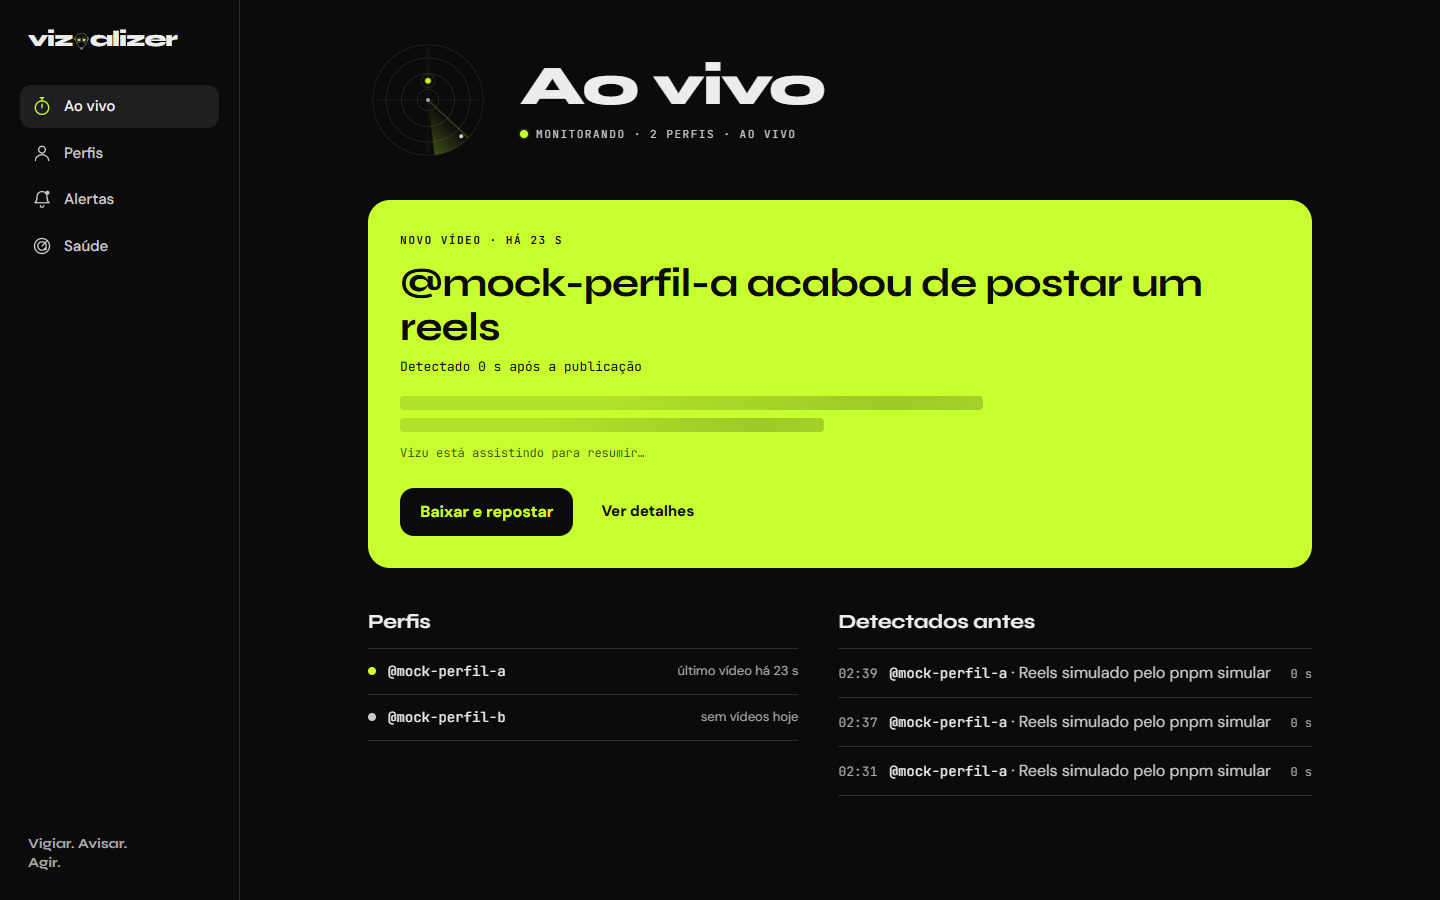
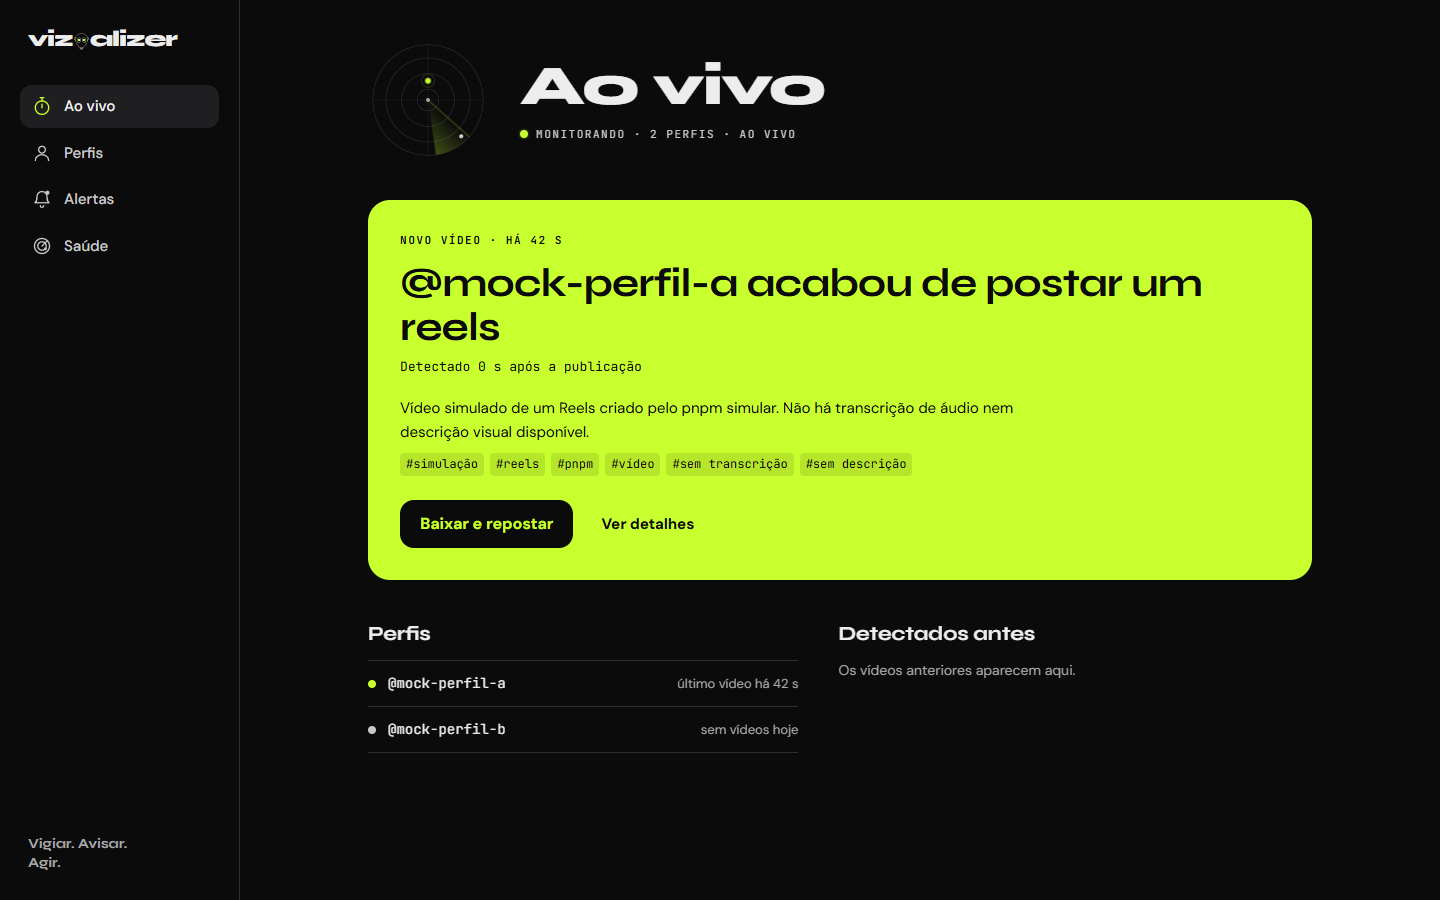
fix: corrige achados da revisao do painel (acessibilidade e push)
Foco visivel dentro do card lima, pular para o conteudo, erro de link expirado
no login, carregando x nao encontrado, realtime reconecta, push sem duplicar,
sw.js trata falha ao navegar, cookies preservados no redirect do proxy.

diff --git a/apps/painel/app/(app)/video/[id]/page.tsx b/apps/painel/app/(app)/video/[id]/page.tsx
@@ -17,7 +17,7 @@ const STATUS: Record<string, string> = {
 export default function DetalheVideo() {
   const { id } = useParams<{ id: string }>();
   const router = useRouter();
-  const { dados: video, erro } = useAoVivo(
+  const { dados: video, erro, carregando } = useAoVivo(
     async () => ok(await supabase().from("videos").select(SELECT_VIDEO).eq("id", id).maybeSingle()) as Video | null,
     ["videos", "jobs_ia"],
   );
@@ -25,17 +25,27 @@ export default function DetalheVideo() {
   const [acaoErro, setAcaoErro] = useState<string | null>(null);
 
   useEffect(() => {
+    setSrc(null);
     if (video?.storage_path) linkDownload(video.storage_path).then(setSrc, () => setSrc(null));
   }, [video?.storage_path]);
+
+  async function baixar() {
+    setAcaoErro(null);
+    try {
+      window.location.href = await linkDownload(video!.storage_path!); // link novo a cada clique
+    } catch (e) {
+      setAcaoErro(e instanceof Error ? e.message : "falha ao gerar o link");
+    }
+  }
 
   async function marcar(status: "repostado" | "ignorado") {
     const { error } = await supabase().from("videos").update({ status }).eq("id", id);
     if (error) setAcaoErro(error.message);
   }
 
-  if (erro) return <Erro mensagem={erro} />;
-  if (video === null) return <Vazio titulo="Vídeo não encontrado" texto="Ele pode ter sido removido." />;
-  if (!video) return <div className="skeleton h-96 rounded-[22px] bg-sup-2" aria-label="Carregando" />;
+  if (carregando) return <div role="status" className="skeleton h-96 rounded-[22px] bg-sup-2" aria-label="Carregando vídeo" />;
+  if (erro && !video) return <Erro mensagem={erro} />;
+  if (!video) return <Vazio titulo="Vídeo não encontrado" texto="Ele pode ter sido removido." />;
   const job = statusJob(video);
 
   return (
@@ -104,13 +114,14 @@ export default function DetalheVideo() {
           )}
 
           <div className="flex flex-wrap gap-3">
-            <a
-              href={src ?? undefined}
-              aria-disabled={!src}
-              className={`rounded-[14px] bg-sinal px-5 py-3 font-bold text-tinta ${src ? "" : "pointer-events-none opacity-50"}`}
+            <button
+              type="button"
+              onClick={baixar}
+              disabled={!video.storage_path}
+              className="rounded-[14px] bg-sinal px-5 py-3 font-bold text-tinta disabled:opacity-50"
             >
-              Baixar
-            </a>
+              {video.storage_path ? "Baixar" : "Preparando o download…"}
+            </button>
             <a href={video.permalink} target="_blank" rel="noreferrer" className="rounded-[14px] border border-borda px-5 py-3 font-bold">
               Abrir no Instagram
             </a>

diff --git a/apps/painel/app/(app)/alertas/page.tsx b/apps/painel/app/(app)/alertas/page.tsx
@@ -47,9 +47,14 @@ export default function Alertas() {
       const reg = await navigator.serviceWorker.ready;
       const sub = await reg.pushManager.subscribe({ userVisibleOnly: true, applicationServerKey: base64ParaUint8(VAPID) });
       const { data: u } = await supabase().auth.getUser();
-      const { error } = await supabase().from("dispositivos").insert({ usuario_id: u.user!.id, tipo: "web_push", destino: sub.toJSON() });
+      if (!u.user) throw new Error("sessão expirada, entre de novo");
+      // subscribe() devolve a mesma assinatura em cliques repetidos: não duplicar o dispositivo.
+      const jaExiste = dados?.find((d) => d.tipo === "web_push" && d.destino.endpoint === sub.endpoint);
+      const { error } = jaExiste
+        ? await supabase().from("dispositivos").update({ ativo: true }).eq("id", jaExiste.id)
+        : await supabase().from("dispositivos").insert({ usuario_id: u.user.id, tipo: "web_push", destino: sub.toJSON() });
       if (error) throw new Error(error.message);
-      setMsg("Push ativado neste aparelho.");
+      setMsg(jaExiste ? "Push já estava ativo neste aparelho." : "Push ativado neste aparelho.");
       recarregar();
     } catch (e) {
       setMsg(`Não foi possível ativar o push: ${e instanceof Error ? e.message : e}`);
@@ -61,8 +66,10 @@ export default function Alertas() {
     const n = numero.replace(/\D/g, "");
     if (n.length < 12) return setMsg("Informe o número com DDI e DDD, ex.: 55 11 99999-0000.");
     const { data: u } = await supabase().auth.getUser();
-    const { error } = await supabase().from("dispositivos").insert({ usuario_id: u.user!.id, tipo: "whatsapp", destino: { numero: n } });
-    setMsg(error ? error.message : "WhatsApp adicionado.");
+    if (!u.user) return setMsg("Sessão expirada, entre de novo.");
+    const { error } = await supabase().from("dispositivos").insert({ usuario_id: u.user.id, tipo: "whatsapp", destino: { numero: n } });
+    if (error) return setMsg(`WhatsApp não adicionado: ${error.message}`);
+    setMsg("WhatsApp adicionado.");
     setNumero("");
     recarregar();
   }

diff --git a/apps/painel/lib/dados.ts b/apps/painel/lib/dados.ts
@@ -47,6 +47,7 @@ export const SELECT_VIDEO = "*, perfis(username), jobs_ia(status)";
 export function useAoVivo<T>(buscar: () => Promise<T>, tabelas: string[]) {
   const [dados, setDados] = useState<T | null>(null);
   const [erro, setErro] = useState<string | null>(null);
+  const [carregando, setCarregando] = useState(true);
   const ref = useRef(buscar);
   ref.current = buscar;
   const chave = tabelas.join(",");
@@ -57,6 +58,8 @@ export function useAoVivo<T>(buscar: () => Promise<T>, tabelas: string[]) {
       setErro(null);
     } catch (e) {
       setErro(e instanceof Error ? e.message : String(e));
+    } finally {
+      setCarregando(false);
     }
   }, []);
 
@@ -70,14 +73,20 @@ export function useAoVivo<T>(buscar: () => Promise<T>, tabelas: string[]) {
         t = setTimeout(recarregar, 250);
       });
     }
-    canal.subscribe();
+    // Ao (re)conectar, recarrega: eventos perdidos durante a queda não se repetem.
+    let primeira = true;
+    canal.subscribe((status) => {
+      if (status === "SUBSCRIBED" && !primeira) recarregar();
+      if (status === "SUBSCRIBED") primeira = false;
+      if (status === "CHANNEL_ERROR" || status === "TIMED_OUT") setErro("conexão ao vivo caiu, tentando reconectar…");
+    });
     return () => {
       clearTimeout(t);
       supabase().removeChannel(canal);
     };
   }, [chave, recarregar]);
 
-  return { dados, erro, recarregar };
+  return { dados, erro, carregando, recarregar };
 }
 
 /** Lança o erro do Supabase em vez de devolver dados vazios em silêncio. */

diff --git a/apps/painel/components/CardDestaque.tsx b/apps/painel/components/CardDestaque.tsx
@@ -21,7 +21,7 @@ export function CardDestaque({ video, agora }: { video: Video; agora: number }) 
   }
 
   return (
-    <article className="card-novo rounded-[22px] bg-sinal p-6 text-tinta md:p-8" aria-live="polite">
+    <article className="card-novo rounded-[22px] bg-sinal p-6 text-tinta md:p-8">
       <p className="rotulo font-semibold">
         {recente ? "Novo vídeo" : "Último vídeo"} · {haQuanto(video.detectado_em, agora)}
       </p>
@@ -47,10 +47,10 @@ export function CardDestaque({ video, agora }: { video: Video; agora: number }) 
         ) : job === "falhou" ? (
           <p className="text-tinta/70">O resumo não ficou pronto. O vídeo continua disponível para baixar.</p>
         ) : (
-          <div aria-label="Vizu está assistindo o vídeo para resumir" className="space-y-2">
-            <div className="skeleton h-3.5 w-11/12 rounded" />
-            <div className="skeleton h-3.5 w-8/12 rounded" />
-            <p className="pt-1 font-mono text-[12px] text-tinta/70">Vizu está assistindo para resumir…</p>
+          <div className="space-y-2">
+            <div className="skeleton h-3.5 w-11/12 rounded" aria-hidden />
+            <div className="skeleton h-3.5 w-8/12 rounded" aria-hidden />
+            <p role="status" className="pt-1 font-mono text-[12px] text-tinta/70">Vizu está assistindo para resumir…</p>
           </div>
         )}
       </div>

diff --git a/apps/painel/public/sw.js b/apps/painel/public/sw.js
@@ -22,18 +22,22 @@ self.addEventListener("push", (event) => {
 
 self.addEventListener("notificationclick", (event) => {
   event.notification.close();
-  const alvo = new URL((event.notification.data && event.notification.data.url) || "/", self.location.origin);
   // O link do push aponta para URL_PAINEL; reescreve para a origem atual (útil em dev e no PWA).
-  const url = self.location.origin + alvo.pathname;
+  let url = self.location.origin + "/";
+  try {
+    const alvo = new URL((event.notification.data && event.notification.data.url) || "/", self.location.origin);
+    url = self.location.origin + alvo.pathname + alvo.search + alvo.hash;
+  } catch {
+    // URL inválida no payload: abre a home.
+  }
   event.waitUntil(
     self.clients.matchAll({ type: "window", includeUncontrolled: true }).then((abas) => {
-      for (const aba of abas) {
-        if ("focus" in aba) {
-          aba.navigate(url);
-          return aba.focus();
-        }
-      }
-      return self.clients.openWindow(url);
+      const aba = abas.find((a) => "navigate" in a && "focus" in a);
+      if (!aba) return self.clients.openWindow(url);
+      return aba
+        .navigate(url)
+        .then((a) => (a || aba).focus())
+        .catch(() => self.clients.openWindow(url));
     }),
   );
 });

diff --git a/apps/painel/app/(app)/layout.tsx b/apps/painel/app/(app)/layout.tsx
@@ -4,12 +4,18 @@ import { Logo } from "@/components/Logo";
 export default function LayoutApp({ children }: { children: React.ReactNode }) {
   return (
     <div className="flex min-h-dvh">
+      <a
+        href="#principal"
+        className="sr-only focus:not-sr-only focus:fixed focus:top-3 focus:left-3 focus:z-50 focus:rounded-[10px] focus:bg-sinal focus:px-4 focus:py-2 focus:font-bold focus:text-tinta"
+      >
+        Pular para o conteúdo
+      </a>
       <Navegacao />
       <div className="min-w-0 flex-1">
         <header className="flex items-center justify-between border-b border-borda px-4 py-3 md:hidden">
           <Logo tamanho={20} />
         </header>
-        <main className="mx-auto w-full max-w-5xl px-4 pt-6 pb-28 md:px-10 md:pt-10 md:pb-16">{children}</main>
+        <main id="principal" tabIndex={-1} className="mx-auto w-full max-w-5xl px-4 pt-6 pb-28 md:px-10 md:pt-10 md:pb-16">{children}</main>
       </div>
     </div>
   );

diff --git a/apps/painel/app/(app)/perfis/page.tsx b/apps/painel/app/(app)/perfis/page.tsx
@@ -117,7 +117,11 @@ function CartaoPerfil({ perfil: p, horas, agora, aoMudar }: { perfil: Perfil; ho
               </label>
               <button
                 type="button"
-                onClick={() => salvar({ intervalo_quente_s: Math.max(5, quente), intervalo_frio_s: Math.max(30, frio) })}
+                onClick={() =>
+                  Number.isFinite(quente) && Number.isFinite(frio) && quente > 0 && frio > 0
+                    ? salvar({ intervalo_quente_s: Math.max(5, Math.round(quente)), intervalo_frio_s: Math.max(30, Math.round(frio)) })
+                    : setErro("Preencha os dois intervalos com números em segundos.")
+                }
                 className="rounded-[10px] bg-texto px-3 py-2 text-sm font-bold text-tinta"
               >
                 Salvar intervalos

diff --git a/apps/painel/app/login/page.tsx b/apps/painel/app/login/page.tsx
@@ -1,5 +1,5 @@
 "use client";
-import { useState } from "react";
+import { useEffect, useState } from "react";
 import { Logo } from "@/components/Logo";
 import { supabase } from "@/lib/supabase/client";
 
@@ -7,6 +7,11 @@ export default function Login() {
   const [email, setEmail] = useState("");
   const [estado, setEstado] = useState<"livre" | "enviando" | "enviado">("livre");
   const [erro, setErro] = useState<string | null>(null);
+
+  useEffect(() => {
+    if (new URLSearchParams(window.location.search).get("erro") === "link")
+      setErro("Este link de acesso é inválido ou expirou. Peça um novo abaixo.");
+  }, []);
 
   async function enviar(e: React.FormEvent) {
     e.preventDefault();

diff --git a/apps/painel/proxy.ts b/apps/painel/proxy.ts
@@ -22,7 +22,9 @@ export async function proxy(request: NextRequest) {
   if (!data?.claims && !p.startsWith("/login") && !p.startsWith("/auth")) {
     const url = request.nextUrl.clone();
     url.pathname = "/login";
-    return NextResponse.redirect(url);
+    const redirect = NextResponse.redirect(url);
+    for (const c of resposta.cookies.getAll()) redirect.cookies.set(c); // não perde renovação de sessão
+    return redirect;
   }
   return resposta;
 }

diff --git a/apps/painel/app/globals.css b/apps/painel/app/globals.css
@@ -90,3 +90,8 @@ body {
 @media (prefers-reduced-motion: reduce) {
   .radar-varredura, .radar-anel, .ponto-aceso, .card-novo, .skeleton { animation: none !important; }
 }
+
+/* Dentro de superfícies lima, o anel de foco lima sumiria: usa a tinta. */
+.bg-sinal :focus-visible {
+  outline-color: var(--viz-tinta);
+}
